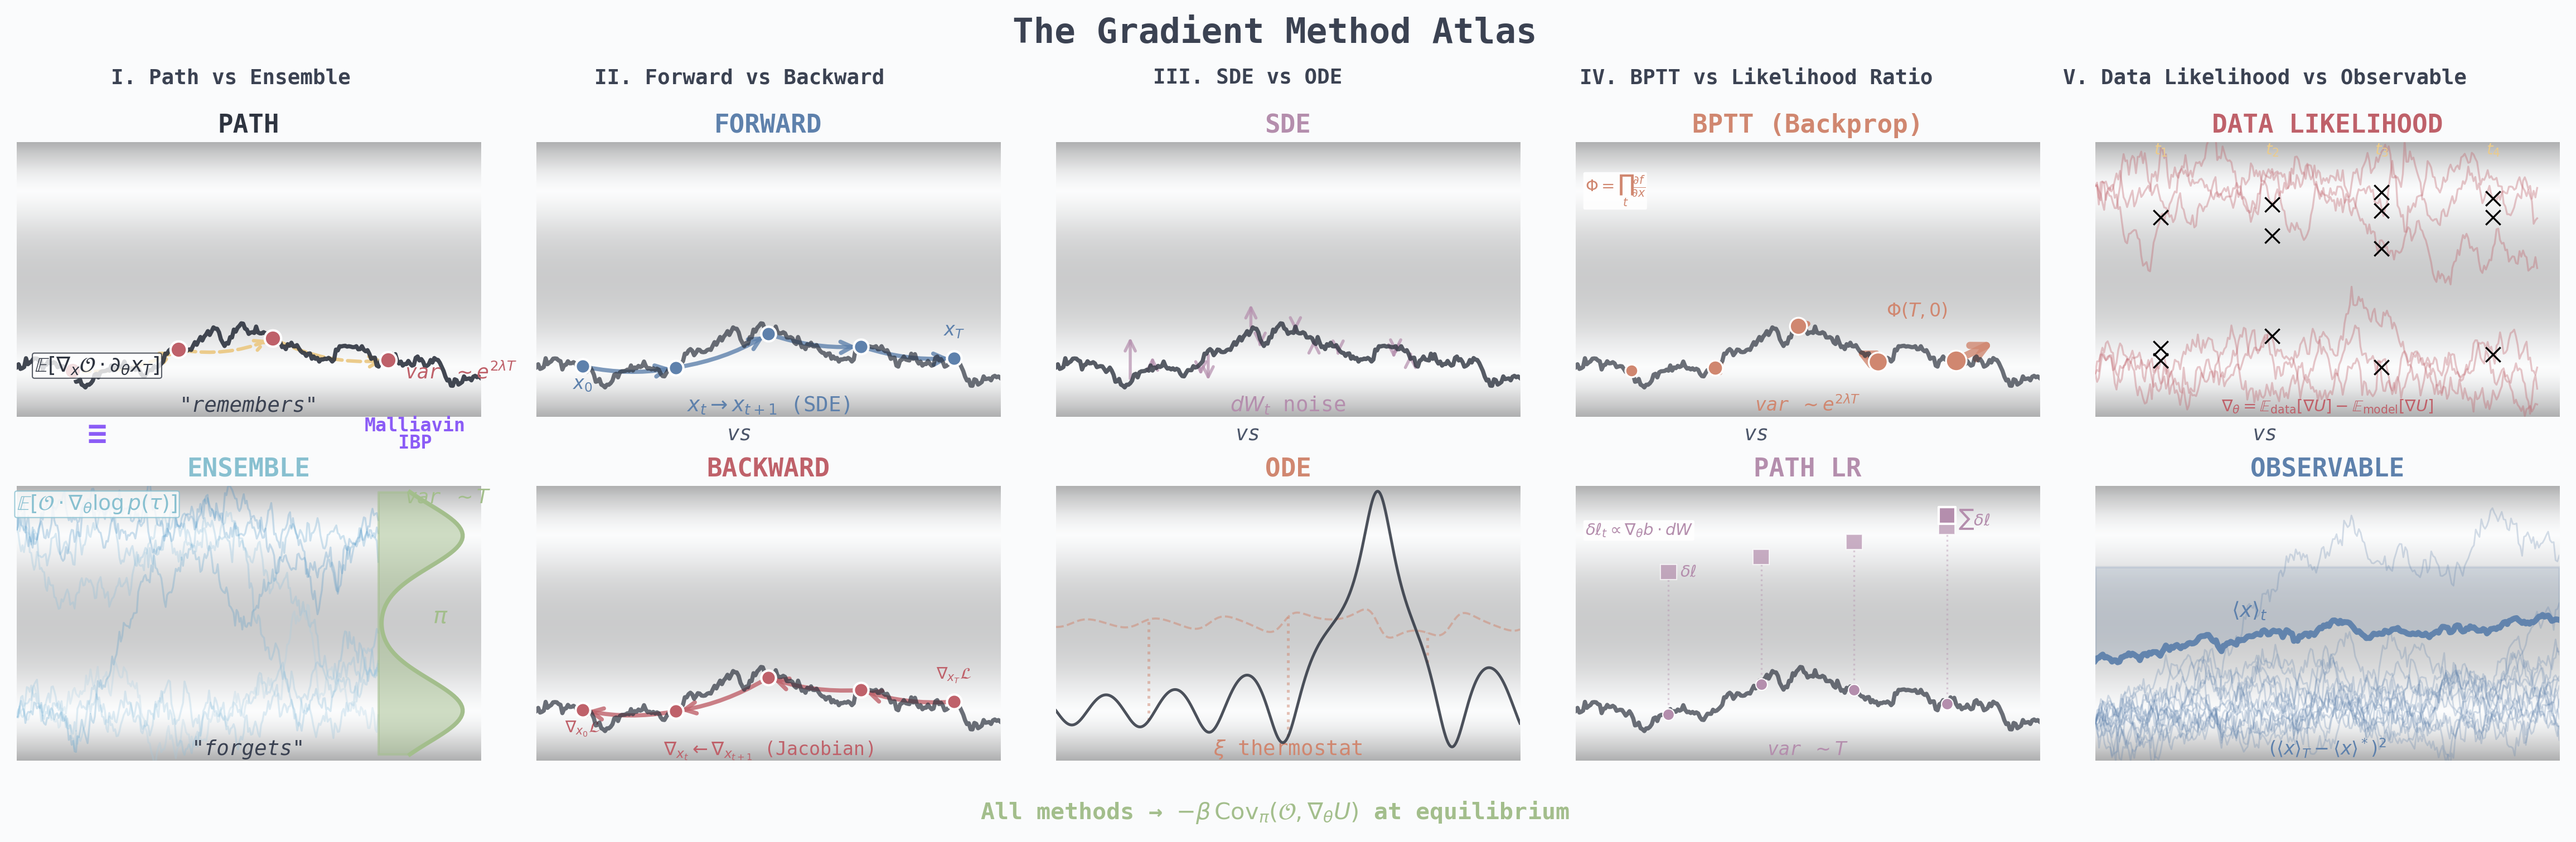
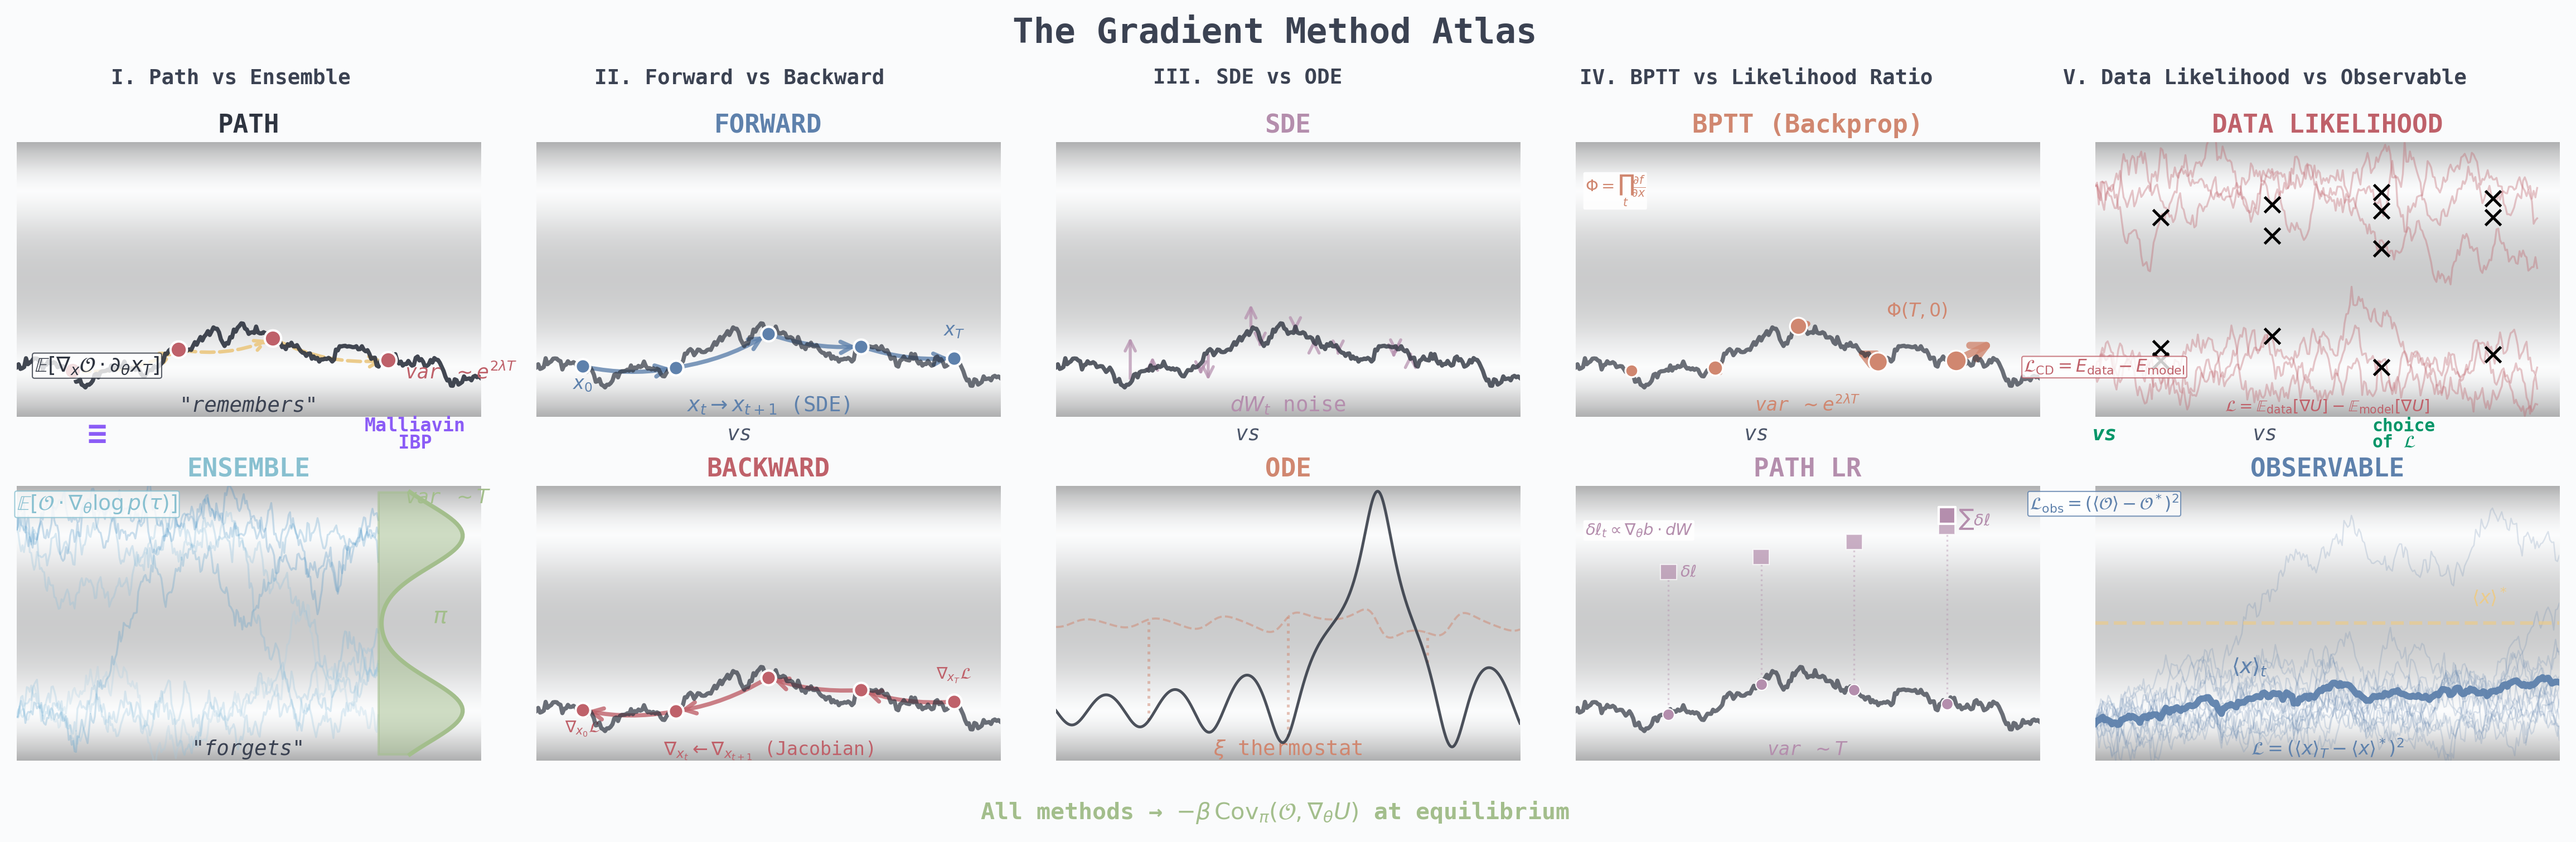
update atlas with CD loss

diff --git a/scripts/visualize_gradient_atlas.py b/scripts/visualize_gradient_atlas.py
@@ -616,15 +616,30 @@ def plot_likelihood_ratio(ax):
 
 
 # =============================================================================
-# Row 5: DATA LIKELIHOOD vs OBSERVABLE MATCHING
+# Row 5: FINE-GRAINED (Data Likelihood) vs COARSE-GRAINED (Observable) LOSS
+# =============================================================================
+# 
+# KEY INSIGHT: Both are instances of the SAME gradient formula:
+#     ∇_θ L = -β Cov_π(O, ∇_θ U)
+# 
+# The difference is the LOSS FUNCTION (choice of what to match):
+#   - CD Loss: L = E_data[E] - E_model[E] → match full distribution
+#   - Observable Loss: L = (⟨O⟩ - target)² → match statistics
+# 
+# This is the "loss function perspective" on differentiable simulation.
+# Both losses lead to the same covariance gradient structure!
 # =============================================================================
 
 def plot_data_likelihood(ax):
-    """Data Likelihood: Maximum Likelihood with Contrastive Divergence.
+    """Contrastive Divergence Loss: L = E_data[E] - E_model[E]
     
-    Shows generated sample data at 4 different time slices to illustrate
-    ML training with contrastive divergence: matching data gradient by
-    comparing model samples vs data samples at each time point.
+    The CD loss directly compares energies at data vs model samples.
+    This is maximum likelihood training of energy-based models.
+    
+    Gradient: ∇_θ L = E_data[∇_θE] - E_model[∇_θE]
+    
+    Visual: Show data points (×) and model samples (○) with their energies,
+    emphasizing the energy difference that drives learning.
     """
     # Get reference trajectory for time axis
     t_ref, _ = get_exemplar_trajectory()
@@ -647,14 +662,12 @@ def plot_data_likelihood(ax):
         ax.plot(t, x_batch[:, i], color=ATLAS_COLORS['fine'], alpha=0.35, lw=0.8, zorder=3)
     
     # =====================================================================
-    # KEY: 4 TIME SLICES with generated data samples
-    # Shows contrastive divergence: model samples ↔ data samples
-    # Gradient = E_data[∇U] - E_model[∇U] (pushes model toward data)
+    # KEY: Data points (×) vs Model samples (○)
+    # CD Loss = E_data[E(x)] - E_model[E(x)]
     # =====================================================================
     time_slices = [0.15, 0.40, 0.65, 0.90]  # 4 time slices
     
-    # Generate "data" samples at each time slice (slightly different from model)
-    # In practice, these would come from real data
+    # Generate "data" samples at each time slice
     np.random.seed(123)
     data_per_slice = [
         np.array([-0.65, -0.55, 0.50]),       # t1: data near left well + one right
@@ -667,63 +680,27 @@ def plot_data_likelihood(ax):
         t_idx = int(frac * (len(t) - 1))
         t_slice = t[t_idx]
         
-        # Draw vertical time slice indicator
-        # ax.axvline(x=t_slice, color=ATLAS_COLORS['data'], alpha=0.3, ls='--', lw=1.0, zorder=1)
-        
-        # Get model samples at this time slice
-        model_samples = x_batch[t_idx, :]
-        
-        # Draw DATA samples (filled circles with black edge) - target distribution
+        # Draw DATA samples (×) - these have E_data
         for y_data in data_samples:
-            ax.scatter(t_slice, y_data, s=40, color="black", linewidth=0.8, zorder=12, marker='x')
-        
-        # # Draw MODEL samples (hollow circles) - what we're training
-        # for y_model in model_samples:
-        #     ax.scatter(t_slice, y_model, s=35, facecolor='white',
-        #               edgecolor=ATLAS_COLORS['fine'], linewidth=1.2, zorder=11, marker='o')
-        
-        # Draw contrastive arrows: model → data (gradient direction)
-        # Show a few representative arrows indicating the "push" direction
-        # for y_data in data_samples[:2]:  # Just show a couple arrows per slice
-        #     # Find closest model sample
-        #     dists = np.abs(model_samples - y_data)
-        #     closest_idx = np.argmin(dists)
-        #     y_model = model_samples[closest_idx]
-            
-        #     # Arrow from model to data (gradient pushes model toward data)
-        #     ax.annotate('', xy=(t_slice + 0.008, y_data), 
-        #                xytext=(t_slice - 0.008, y_model),
-        #                arrowprops=dict(arrowstyle='->', color=ATLAS_COLORS['fine'], 
-        #                               lw=1.2, alpha=0.6, mutation_scale=8))
-    
-    # Time slice labels
-    for i, frac in enumerate(time_slices):
-        t_idx = int(frac * (len(t) - 1))
-        ax.text(t[t_idx], 1.0, f'$t_{i+1}$', fontsize=7, ha='center', 
-               color=ATLAS_COLORS['data'], fontweight='bold')
-    
-    # Legend-like annotation (within plot bounds)
-    ax.scatter([], [], s=35, color=ATLAS_COLORS['data'], edgecolor='black', 
-              linewidth=0.8, marker='o', label='data')
-    ax.scatter([], [], s=35, facecolor='white', edgecolor=ATLAS_COLORS['fine'], 
-              linewidth=1.2, marker='o', label='model')
-    # ax.text(0.02, 0.82, '● data  ○ model', fontsize=6.5, transform=ax.transAxes,
-    #        color=ATLAS_COLORS['annotation'], 
-    #        bbox=dict(boxstyle='round,pad=0.1', facecolor='white', alpha=0.9, edgecolor='none'))
+            ax.scatter(t_slice, y_data, s=45, color="black", linewidth=1.2, zorder=12, marker='x')
     
     ax.set_xlim(t_range[0], t_range[1])
     ax.set_ylim(-1.1, 1.1)
     ax.set_title('DATA LIKELIHOOD', fontsize=11, fontweight='bold', color=ATLAS_COLORS['fine'], pad=4)
-    ax.text(0.5, 0.02, '$\\nabla_\\theta = \\mathbb{E}_{\\mathrm{data}}[\\nabla U] - \\mathbb{E}_{\\mathrm{model}}[\\nabla U]$', 
+    ax.text(0.5, 0.02, '$\\mathcal{L} = \\mathbb{E}_{\\mathrm{data}}[\\nabla U] - \\mathbb{E}_{\\mathrm{model}}[\\nabla U]$', 
             transform=ax.transAxes, ha='center', fontsize=7, color=ATLAS_COLORS['fine'])
     clean_axis(ax)
 
 
 def plot_observable(ax):
-    """Observable Matching: Match a coarse observable like ⟨x⟩.
+    """Observable Loss: L = (⟨O⟩ - target)²
     
-    Shows the AVERAGE POSITION as a function of time plotted ABOVE the trajectories.
-    This illustrates what the observable loss actually tracks - the ensemble mean.
+    Match a statistic (observable) rather than the full distribution.
+    This is coarse-grained matching - only care about specific moments.
+    
+    Gradient: ∇_θ L = 2(⟨O⟩ - target) · (-β) Cov_π(O, ∇_θU)
+    
+    Visual: Ensemble with mean trajectory, showing the gap to target.
     """
     # Get reference trajectory for time axis
     t_ref, _ = get_exemplar_trajectory()
@@ -742,42 +719,32 @@ def plot_observable(ax):
     t = np.linspace(0, 1, len(t_ref))
     t_end = t[-1]
     
-    # Plot all trajectories (more visible)
+    # Plot all trajectories (faded - individual paths don't matter)
     for i in range(n_paths):
-        ax.plot(t, x_batch[:, i], color=ATLAS_COLORS['coarse'], alpha=0.25, lw=0.7, zorder=2)
+        ax.plot(t, x_batch[:, i], color=ATLAS_COLORS['coarse'], alpha=0.20, lw=0.6, zorder=2)
     
     # =====================================================================
-    # KEY: Plot the OBSERVABLE ⟨x⟩_t as a function of time ABOVE trajectories
+    # KEY: Only the OBSERVABLE ⟨x⟩_t matters, not individual samples
+    # Loss = (⟨x⟩_T - target)²
     # =====================================================================
     mean_traj = np.mean(x_batch, axis=1)
     
-    # Offset the mean trajectory above to make it visually distinct (within bounds)
-    y_offset = 0.50  # Shift upward but stay within ylim
-    mean_traj_shifted = mean_traj + y_offset
+    # Plot the observable curve (thick, prominent - THIS is what we're matching)
+    ax.plot(t, mean_traj, color=ATLAS_COLORS['coarse'], lw=2.8, zorder=10, alpha=0.95)
     
-    # Plot the observable curve (thick, prominent)
-    ax.plot(t, mean_traj_shifted, color=ATLAS_COLORS['coarse'], lw=2.5, zorder=10, alpha=0.95)
-    ax.fill_between(t, y_offset - 0.05, mean_traj_shifted, color=ATLAS_COLORS['coarse'], alpha=0.15, zorder=9)
-    
-    # Label the observable (positioned within plot bounds)
+    # Label the observable
     mid_idx = len(t) // 3
-    ax.text(t[mid_idx], mean_traj_shifted[mid_idx] + 0.15, '$\\langle x \\rangle_t$', 
+    ax.text(t[mid_idx], mean_traj[mid_idx] + 0.20, '$\\langle x \\rangle_t$', 
             fontsize=9, color=ATLAS_COLORS['coarse'], fontweight='bold', ha='center', zorder=15)
     
-    # # Show target observable (dashed line)
-    # target_mean = 0.0  # Equilibrium mean should be ~0 for symmetric double-well
-    # ax.axhline(y=target_mean + y_offset, color=ATLAS_COLORS['data'], ls='--', lw=2, alpha=0.8, zorder=8)
-    # ax.text(t_end * 0.5, target_mean + y_offset + 0.12, '$\\langle x \\rangle^*$', 
-    #         fontsize=8, color=ATLAS_COLORS['data'], fontweight='bold', va='bottom', ha='center')
-    
-    # Show loss as gap between model and target at end
-    # ax.annotate('', xy=(t_end * 0.95, target_mean + y_offset), 
-    #            xytext=(t_end * 0.95, mean_traj_shifted[-1]),
-    #            arrowprops=dict(arrowstyle='<->', color=ATLAS_COLORS['annotation'], 
-    #                          lw=1.5, mutation_scale=8), zorder=11)
+    # Show target value as dashed line
+    target_mean = 0.0  # Equilibrium mean for symmetric double-well
+    ax.axhline(y=target_mean, color=ATLAS_COLORS['data'], ls='--', lw=1.5, alpha=0.7, zorder=8)
+    ax.text(t_end * 0.85, target_mean + 0.12, '$\\langle x \\rangle^*$', 
+            fontsize=8, color=ATLAS_COLORS['data'], fontweight='bold', va='bottom', ha='center')
     
     ax.set_title('OBSERVABLE', fontsize=11, fontweight='bold', color=ATLAS_COLORS['coarse'], pad=4)
-    ax.text(0.5, 0.02, '$(\\langle x \\rangle_T - \\langle x \\rangle^*)^2$', 
+    ax.text(0.5, 0.02, '$\\mathcal{L} = (\\langle x \\rangle_T - \\langle x \\rangle^*)^2$', 
             transform=ax.transAxes, ha='center', fontsize=8, color=ATLAS_COLORS['coarse'])
     ax.set_xlim(t_range[0], t_range[1])
     ax.set_ylim(-1.1, 1.1)
@@ -802,7 +769,7 @@ def main():
         ('II', 'Forward vs Backward'),
         ('III', 'SDE vs ODE'),
         ('IV', 'BPTT vs Likelihood Ratio'),
-        ('V', 'Data Likelihood vs Observable'),
+        ('V', 'Data Likelihood vs Observable'),  # Both use same gradient, different O
     ]
     
     # Plot panels - top row (first of each pair), bottom row (second of each pair)
@@ -882,6 +849,32 @@ def main():
     fig.text(x_ibp + 0.065, 0.395, 'var $\\sim T$', 
              fontsize=8.5, ha='left', va='center', color=ATLAS_COLORS['equilibrium'], 
              style='italic')
+    
+    # ==========================================================================
+    # Column V: Add "Loss Function" annotation between DATA LIKELIHOOD and OBSERVABLE
+    # KEY INSIGHT: Both are different LOSS choices, same underlying gradient structure!
+    # CD Loss: e_data - e_model  |  Observable Loss: (⟨O⟩ - target)²
+    # ==========================================================================
+    loss_color = '#059669'  # Emerald green for the loss connection
+    x_loss = 0.11 + 4 * 0.19  # Column V position
+    
+    # Top: CD Loss formula
+    fig.text(x_loss - 0.06, 0.54, '$\\mathcal{L}_\\mathrm{CD} = E_\\mathrm{data} - E_\\mathrm{model}$', 
+             fontsize=7.5, ha='center', va='bottom', color=ATLAS_COLORS['fine'],
+             fontweight='bold', bbox=dict(boxstyle='round,pad=0.1', facecolor='white', 
+                                          edgecolor=ATLAS_COLORS['fine'], alpha=0.8, lw=0.5))
+    
+    # "vs" with "choice of L" label - emphasizing it's about LOSS choice
+    # fig.text(x_loss - 0.06, 0.47, 'vs', fontsize=9, ha='center', va='center', 
+    #          color=loss_color, fontweight='bold', style='italic')
+    # fig.text(x_loss + 0.04, 0.47, 'choice\nof $\\mathcal{L}$', fontsize=7.5, ha='left', va='center', 
+    #          color=loss_color, fontweight='bold', linespacing=0.9)
+    
+    # Bottom: Observable Loss formula
+    fig.text(x_loss - 0.06, 0.40, '$\\mathcal{L}_\\mathrm{obs} = (\\langle\\mathcal{O}\\rangle - \\mathcal{O}^*)^2$', 
+             fontsize=7.5, ha='center', va='top', color=ATLAS_COLORS['coarse'],
+             fontweight='bold', bbox=dict(boxstyle='round,pad=0.1', facecolor='white', 
+                                          edgecolor=ATLAS_COLORS['coarse'], alpha=0.8, lw=0.5))
     
     # Main title
     fig.suptitle('The Gradient Method Atlas', fontsize=15, fontweight='bold',
